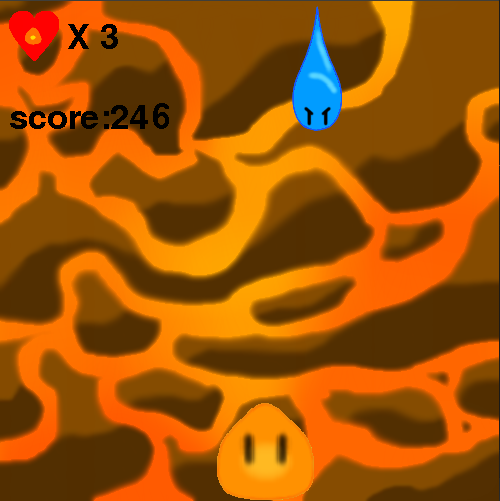
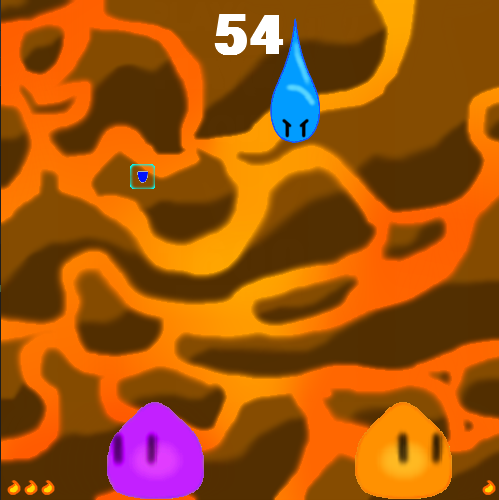
Added multiplayer.Controls: P1 - <v>; P2 - ASD

diff --git a/main.py b/main.py
@@ -4,27 +4,32 @@ from collisions import detect_collisions
 from random import randint, choice
 
 
-def play():
+def play(multiplayer=False):
     global highscore
     global drops
     global powerups
     global score
-    player.lives = 3
-    player.shields = 1
+    player2 = Player(field_size[0] - plr_s, field_size[1] - plr_s, plr_s, 2)
+    if multiplayer:
+        player1.x = 0
+    player1.lives = 3
+    player1.shields = 1
     drops = []
     powerups = []
     is_playing = True
     timer_limit = 50
     times = 0
     score = 0
-    move_dir = ''
+    move_dir1 = ''
+    move_dir2 = ''
     fire = pg.transform.scale(pg.image.load('resources/fire.png'), (15, 15))
     sfire = pg.transform.scale(pg.image.load('resources/shield_fire.png'), (15, 15))
-    shield = pg.transform.scale(pg.image.load('resources/Shield.png'), (player.size, player.size // 3))
-    shield2 = pg.transform.scale(pg.image.load('resources/Shield.png'), (int(player.size * 1.5), player.size // 3))
-    shield3 = pg.transform.scale(pg.image.load('resources/Shield.png'), (player.size * 2, player.size // 3))
+    shield = pg.transform.scale(pg.image.load('resources/Shield.png'), (player1.size, player1.size // 3))
+    shield2 = pg.transform.scale(pg.image.load('resources/Shield.png'), (int(player1.size * 1.5), player1.size // 3))
+    shield3 = pg.transform.scale(pg.image.load('resources/Shield.png'), (player1.size * 2, player1.size // 3))
     timer = 0
-    while player.lives > 0:
+    multiplayer = multiplayer
+    while player1.lives > 0 and player2.lives > 0:
         screen.blit(bg, (0, 0))
         for event in pg.event.get():
             if event.type == pg.QUIT:
@@ -34,15 +39,20 @@ def play():
                 quit()
             elif event.type == pg.KEYDOWN:
                 if event.key == pg.K_LEFT:
-                    move_dir = 'l'
+                    move_dir1 = 'l'
                 elif event.key == pg.K_RIGHT:
-                    move_dir = 'r'
+                    move_dir1 = 'r'
                 elif event.key == pg.K_DOWN:
-                    move_dir = ''
-                elif event.key == pg.K_UP:
-                    player.jump(15)
+                    move_dir1 = ''
                 elif event.key == pg.K_SPACE:
                     is_playing = not is_playing
+                if multiplayer:
+                    if event.key == pg.K_a:
+                        move_dir2 = 'l'
+                    elif event.key == pg.K_d:
+                        move_dir2 = 'r'
+                    elif event.key == pg.K_s:
+                        move_dir2 = ''
         if timer > int(timer_limit):
             timer = 0
             drops.append(Drop(randint(0, field_size[0] - 50), 0, 50))
@@ -53,40 +63,67 @@ def play():
             times = 0
             powerups.append(PowerUp(randint(0, field_size[0] - 25), -25, 25, choice(ptypes)))
         if is_playing:
-            player.draw()
-            if player.shields > 0:
-                screen.blit(shield, (player.x, player.y))
-            if player.shields > 1:
-                screen.blit(shield2, (player.x - player.size // 4, player.y - player.size // 10))
-            if player.shields > 2:
-                screen.blit(shield3, (player.x - player.size // 2, player.y - player.size // 5))
-            player.move(move_dir, 8)
+            player1.draw()
+            if player1.shields > 0:
+                screen.blit(shield, (player1.x, player1.y))
+            if player1.shields > 1:
+                screen.blit(shield2, (player1.x - player1.size // 4, player1.y - player1.size // 10))
+            if player1.shields > 2:
+                screen.blit(shield3, (player1.x - player1.size // 2, player1.y - player1.size // 5))
+            if multiplayer:
+                player2.draw()
+                if player2.shields > 0:
+                    screen.blit(shield, (player2.x, player2.y))
+                if player2.shields > 1:
+                    screen.blit(shield2, (player2.x - player2.size // 4, player2.y - player2.size // 10))
+                if player2.shields > 2:
+                    screen.blit(shield3, (player2.x - player2.size // 2, player2.y - player2.size // 5))
+            player1.move(move_dir1, 8)
+            if multiplayer:
+                player2.move(move_dir2, 8)
             for i in drops:
                 if i.anim_prog > 9:
                     i.move()
                     if i.check_for_floor():
-                        score += int(60 - timer_limit)
-                    if i.check_for_collisions(player):
-                        if player.shields:
-                            player.shields -= 1
-                            score += (60 - int(timer_limit)) * 2
-                            player.lives += 1
+                        score += int(60 - timer_limit) * (int(multiplayer) + 1)
+                    if i.check_for_collisions(player1):
+                        if player1.shields:
+                            player1.shields -= 1
+                            score += (60 - int(timer_limit)) * 2 * (int(multiplayer) + 1)
+                            player1.lives += 1
+                    elif multiplayer:
+                        if i.check_for_collisions(player2):
+                            if player2.shields:
+                                player2.shields -= 1
+                                score += (60 - int(timer_limit)) * 2 * (int(multiplayer) + 1)
+                                player2.lives += 1
                     i.draw()
                 else:
                     i.animation()
             for i in powerups:
                 i.move()
                 i.check_for_floor()
-                i.check_for_collisions(player)
+                i.check_for_collisions(player1)
+                if multiplayer:
+                    i.check_for_collisions(player2)
                 i.draw()
             x_pos = 5
-            for i in range(player.lives):
+            for i in range(player1.lives):
                 screen.blit(fire, (x_pos, field_size[1] - 20))
                 x_pos += 17
             x_pos = 5
-            for i in range(player.shields):
+            for i in range(player1.shields):
                 screen.blit(sfire, (x_pos, field_size[1] - 45))
                 x_pos += 17
+            if multiplayer:
+                x_pos = field_size[0] - 20
+                for i in range(player2.lives):
+                    screen.blit(fire, (x_pos, field_size[1] - 20))
+                    x_pos -= 17
+                x_pos = field_size[0] - 20
+                for i in range(player2.shields):
+                    screen.blit(sfire, (x_pos, field_size[1] - 45))
+                    x_pos -= 17
             score_rect = font.render(str(score), True, (255, 255, 255)).get_rect()
             score_rect.centerx = field_size[0] // 2
             score_rect.y = 10
@@ -114,7 +151,8 @@ class PowerUp:
         screen.blit(self.pic, (self.x, self.y))
 
     def delete(self):
-        powerups.remove(self)
+        if self in powerups:
+            powerups.remove(self)
 
     def check_for_floor(self):
         if self.y >= field_size[1]:
@@ -188,12 +226,12 @@ class Drop:
 
 
 class Player:
-    def __init__(self, x, y, size):
+    def __init__(self, x, y, size, pic):
         self.pics = []
         self.size = size
         self.x = x
         self.y = y
-        self.raw = pg.image.load('resources/Player.png')
+        self.raw = pg.image.load('resources/Player1.png') if pic == 1 else pg.image.load('resources/Player2.png')
         self.look_dir = 0
         self.lives = 3
         self.shields = 1
@@ -206,14 +244,9 @@ class Player:
             surf = pg.transform.scale(surf, (size, size))
             self.pics.append(surf)
         self.rect = self.pics[0].get_rect()
-        self.jumppower = 0
 
     def draw(self):
         screen.blit(self.pics[self.look_dir], (self.x, self.y))
-
-    def jump(self, power):
-        self.vel = power
-        self.jumppower = power
 
     def move(self, dir, speed):
         if dir == 'r':
@@ -232,9 +265,6 @@ class Player:
                 self.look_dir = 1
         else:
             self.look_dir = 0
-        if self.vel < self.jumppower:
-            self.y -= self.vel
-            self.vel -= 1
 
 
 pg.init()
@@ -264,7 +294,6 @@ clk = pg.time.Clock()
 font = pg.font.SysFont('resources/Quicksand-Bold.otf', 80, True, False)
 
 FPS = 50
-move_dir = ''
 plr_s = 100
 y_speed = 0
 
@@ -272,10 +301,10 @@ tmp = open('highscore', 'r')
 highscore = int(tmp.readline())
 tmp.close()
 
-player = Player(bg.get_rect()[3] // 2 - plr_s // 2, bg.get_rect()[3] - plr_s, plr_s)
+player1 = Player(bg.get_rect()[3] // 2 - plr_s // 2, bg.get_rect()[3] - plr_s, plr_s, 1)
 ptypes = ['shield', 'life']
-buttons = [Button(screen, 'PLAY'), Button(screen, 'QUIT')]
 screenshots_rect.centerx = field_centerx
+buttons = [Button(screen, 'PLAY(single)'), Button(screen, 'PLAY(multi)'), Button(screen, 'QUIT')]
 screenshots_rect.y = field_centery
 current_screenshot = choice(screenshots)
 while True:
@@ -287,7 +316,7 @@ while True:
         else:
             i.draw(randint(field_centerx - 1, field_centerx + 1), randint(y_pos - 1, y_pos + 1), (255, 255, 255))
         y_pos += 55
-    y_pos -= 15
+    y_pos -= 25
     crown_rect.y = y_pos
     screen.blit(crown, crown_rect)
     y_pos += 65
@@ -296,6 +325,8 @@ while True:
     txt_rect.centerx = field_centerx
     txt_rect.y = y_pos
     screen.blit(txt, txt_rect)
+    y_pos += 50
+    screenshots_rect.y = y_pos
     screen.blit(current_screenshot, screenshots_rect)
 
     for event in pg.event.get():
@@ -310,8 +341,11 @@ while True:
                     if i.is_touching_mouse():
                         if i.text == 'QUIT':
                             quit()
-                        elif i.text == 'PLAY':
+                        elif i.text == 'PLAY(single)':
                             play()
+                            current_screenshot = choice(screenshots)
+                        elif i.text == 'PLAY(multi)':
+                            play(True)
                             current_screenshot = choice(screenshots)
 
     pg.display.flip()
